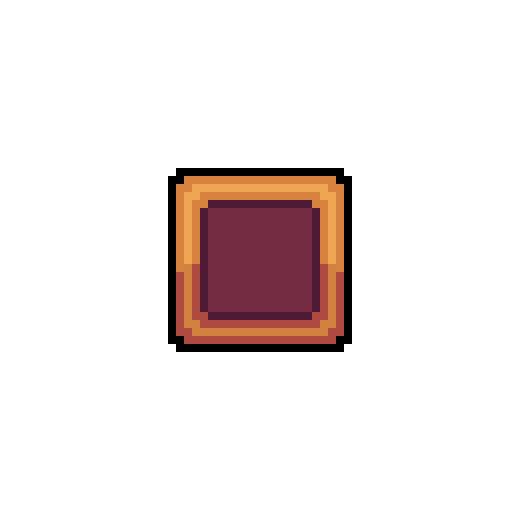
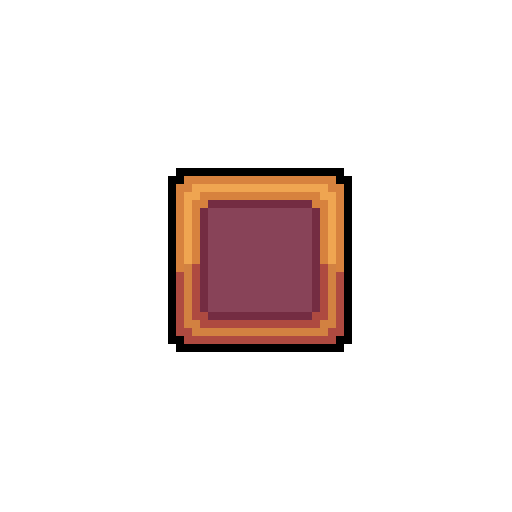
Aggiunta nuova mappa contenente il Cimitero, nuova mappa della foresta contenente lo spiritForest, inventario contenente le pozioni e piccoli aggiustamenti vari

Changed region(s): [[0.375, 0.375, 0.625, 0.625]]

diff --git a/src/main/java/it/unicam/cs/mpgc/rpg129851/Controller/LoaderController.java b/src/main/java/it/unicam/cs/mpgc/rpg129851/Controller/LoaderController.java
@@ -26,10 +26,11 @@ public class LoaderController {
             level1Orc, level2Orc, level3Orc;
     @FXML
     public Image imageLeft, imageRight, imageOrc,
-                 imageExclamation, imageHealthBar, inventory,
+                 imageExclamation, imageHealthBar, inventory, potionLV1, potionLV2, potionLV3,
                  imageOrcAttack, imagePlayerAttack;
     @FXML
     public ImageView playerView, healthBarViewPlayer, backgroundView, healthBarViewOrc,
+                     slotPotionLV1View, slotPotionLV2View, slotPotionLV3View,
                      potionLV1View, potionLV2View, potionLV3View;
     public final int FRAME_WIDTH = 100;
     public final int FRAME_HEIGHT = 100;
@@ -159,9 +160,21 @@ public class LoaderController {
     }
     public void loadInventory(){
         inventory = new Image(Objects.requireNonNull(getClass().getResourceAsStream("/it/unicam/cs/mpgc/rpg129851/utilsImages/inventoryImage.png")));
-        potionLV1View.setImage(inventory);
-        potionLV2View.setImage(inventory);
-        potionLV3View.setImage(inventory);
+        potionLV1 = new Image(Objects.requireNonNull(getClass().getResourceAsStream("/it/unicam/cs/mpgc/rpg129851/potionImages/noPotionLV1.png")));
+        potionLV2 = new Image(Objects.requireNonNull(getClass().getResourceAsStream("/it/unicam/cs/mpgc/rpg129851/potionImages/noPotionLV2.png")));
+        potionLV3 = new Image(Objects.requireNonNull(getClass().getResourceAsStream("/it/unicam/cs/mpgc/rpg129851/potionImages/noPotionLV3.png")));
+        slotPotionLV1View.setImage(inventory);
+        slotPotionLV1View.setSmooth(false);
+        slotPotionLV2View.setImage(inventory);
+        slotPotionLV2View.setSmooth(false);
+        slotPotionLV3View.setImage(inventory);
+        slotPotionLV3View.setSmooth(false);
+        potionLV1View.setImage(potionLV1);
+        potionLV1View.setSmooth(false);
+        potionLV2View.setImage(potionLV2);
+        potionLV2View.setSmooth(false);
+        potionLV3View.setImage(potionLV3);
+        potionLV3View.setSmooth(false);
     }
     public void loadImagesKnightLV1() {
         imageRight = new Image(Objects.requireNonNull(getClass().getResourceAsStream("/it/unicam/cs/mpgc/rpg129851/knightLV1Images/knightWalkRight.png")));

diff --git a/src/main/java/it/unicam/cs/mpgc/rpg129851/Model/ForestSpirit.java b/src/main/java/it/unicam/cs/mpgc/rpg129851/Model/ForestSpirit.java
@@ -3,11 +3,9 @@ package it.unicam.cs.mpgc.rpg129851.Model;
 import com.google.gson.Gson;
 import com.google.gson.stream.JsonReader;
 import com.sun.tools.javac.Main;
-
 import java.io.*;
 import java.util.ArrayList;
 import java.util.List;
-
 
 public class ForestSpirit {
     public List<Quest> quests;
@@ -17,22 +15,18 @@ public class ForestSpirit {
     }
     private void loadQuests() {
         Gson gson = new Gson();
-
         try (InputStream is = Main.class.getClassLoader().getResourceAsStream("quests.json")) {
-
             if (is == null) {
                 System.err.println("Errore: quests.json non trovato!");
                 return;
             }
-
             JsonReader reader = new JsonReader(new InputStreamReader(is));
             reader.beginArray();
 
             while (reader.hasNext()) {
                 Quest quest = gson.fromJson(reader, Quest.class);
-                quests.add(quest);
+                this.getQuests().add(quest);
             }
-
             reader.endArray();
             reader.close();
 

diff --git a/src/main/java/it/unicam/cs/mpgc/rpg129851/Model/Quest.java b/src/main/java/it/unicam/cs/mpgc/rpg129851/Model/Quest.java
@@ -8,9 +8,7 @@ public class Quest {
     public String reward;
     public Quest(){}
 
-    public String getTask(){
-        return task;
-    }
+    public String getTask(){return task;}
     public String getWho(){
         return who;
     }
@@ -24,6 +22,7 @@ public class Quest {
         return reward;
     }
     public String toString(){
-        return "La quest e': " + task + " " + howMuch + " " + who + " LV" + level + " per ricevere " + reward;
+        return "La quest e': " + this.getTask() + " " + this.getHowMuch() + " " +
+                this.getWho() + " LV" + this.getLevel() + " per ricevere " + this.getReward();
     }
 }

diff --git a/src/main/java/it/unicam/cs/mpgc/rpg129851/Launch/Main.java b/src/main/java/it/unicam/cs/mpgc/rpg129851/Launch/Main.java
@@ -20,7 +20,7 @@ public class Main extends Application {
     public static boolean criticalHit = false;
     @Override
     public void start(Stage primaryStage) throws IOException {
-        FXMLLoader loader = new FXMLLoader(getClass().getResource("/it/unicam/cs/mpgc/rpg129851/forest-view.fxml"));
+        FXMLLoader loader = new FXMLLoader(getClass().getResource("/it/unicam/cs/mpgc/rpg129851/map-view.fxml"));
         Parent root = loader.load();
         Scene scene = new Scene(root);
         primaryStage.setScene(scene);